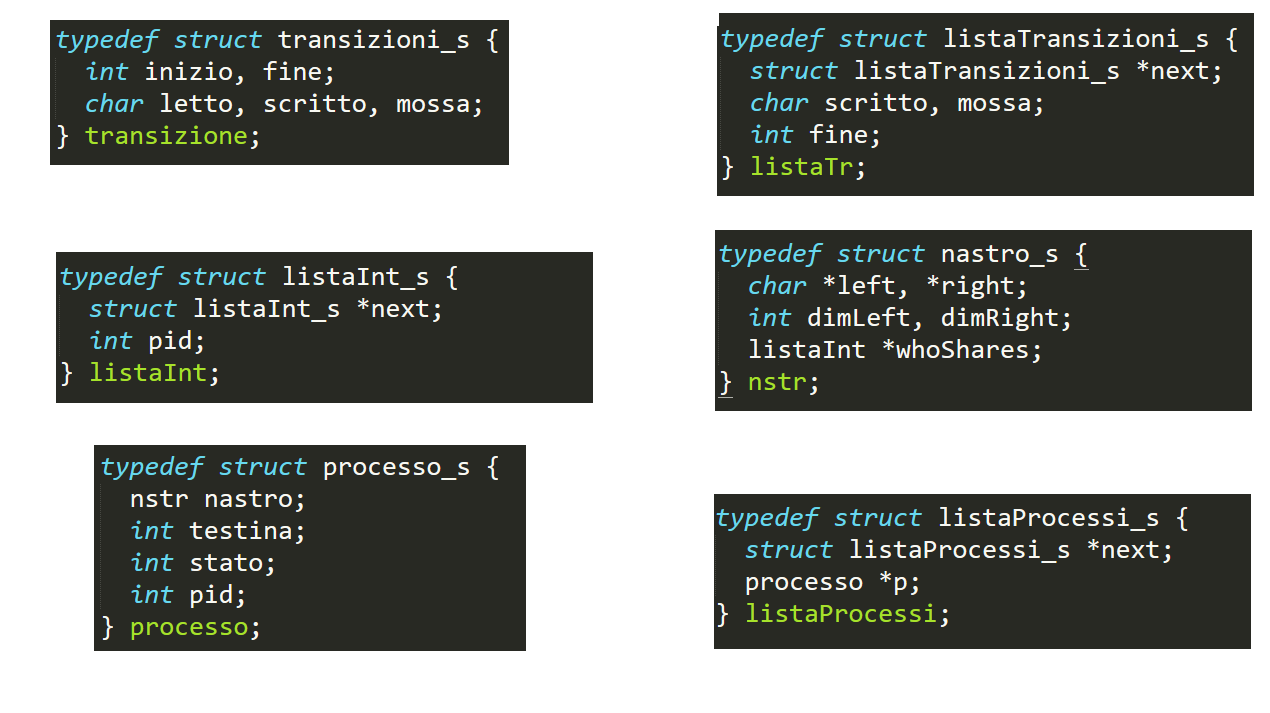
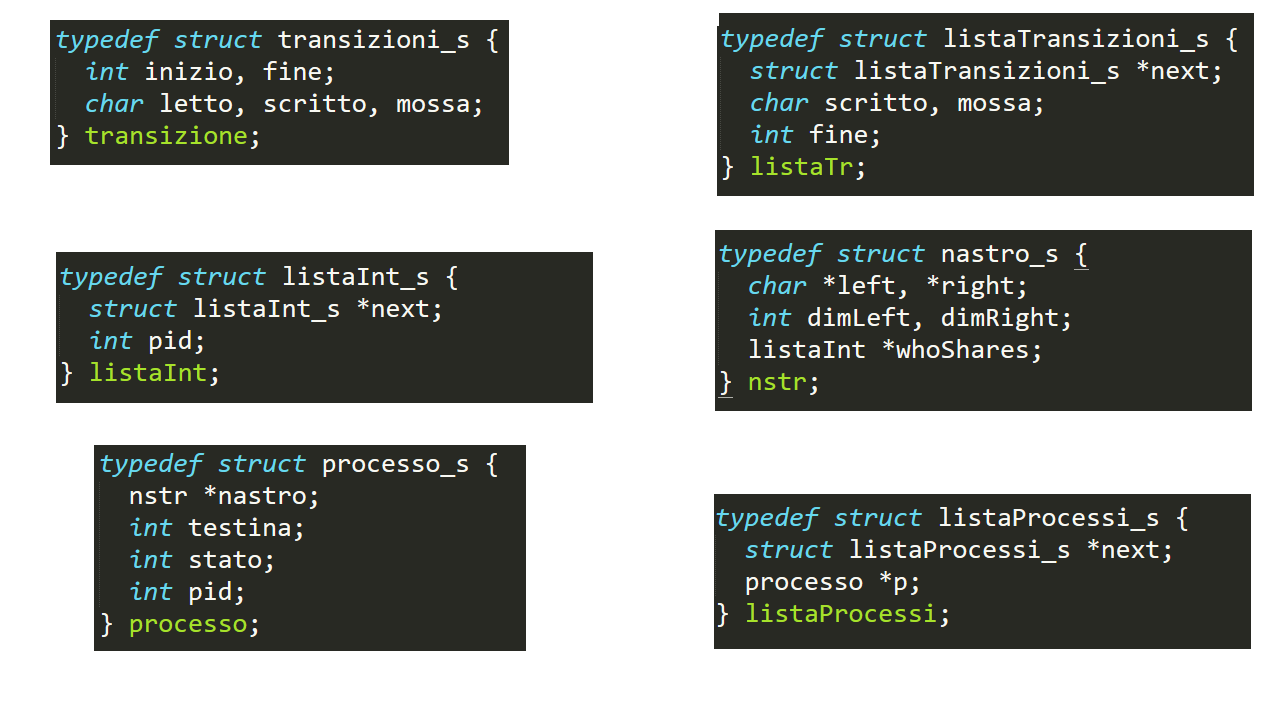
made nastro a pointer

Changed region(s): [[0.0614, 0.6171, 0.3992, 0.8948]]

diff --git a/main.c b/main.c
@@ -27,7 +27,7 @@ typedef struct nastro_s {
 } nstr;
 
 typedef struct processo_s {
-	nstr nastro;
+	nstr *nastro;
 	int testina;
 	int stato;
 	int pid;
@@ -39,36 +39,39 @@ typedef struct listaProcessi_s {
 } listaProcessi;
 
 
-int pos(int, int, int);
-listaTr *pushTransizione(listaTr *, transizione);
-char executeMachine(listaTr **, int, int, bool *, int, char *, int *);
+int pos(int, int, int);	//ritorna la posizione <i, j> nella matrice
+listaTr *pushTransizione(listaTr *, transizione);	//push nella lista transizioni
+char executeMachine(listaTr **, int, int, bool *, int, char *, int *);	//esegue la macchina
 
+//FUNZIONI DI LETTURA INPUT:
 transizione *leggiTransizioni(transizione *, int *, int *, int *, int *);
 void leggiStatiAccettazione(bool *);
 void leggiMax(int *);
 void creaRigheCaratteri(int *);
 listaTr **creaMatrice(listaTr **, transizione *, int, int, int *, int);
 
+//FUNZIONI PER DEBUGGING
 char rigaToCarattere(int, int *);
 void stampaLista(listaTr *);
 void showMatrix(listaTr **, int, int, int *);
 
-processo *createProcess(processo *, int, int, int, nstr);
-nstr *createNastro(nstr *, char *, int);
-listaInt *pushListaInt(listaInt *, int);
-listaProcessi *pushListaProcessi(listaProcessi *, processo *);
-listaProcessi *popListaProcessi(listaProcessi *, processo *);
-void deleteListaInt(listaInt *);
 
-void freeListaProcessi(listaProcessi *);
-char carattereLetto(processo *);
-bool nastroIsShared(processo *);
-void scriviSuNastro(processo *, char);
-void muoviTestina(processo *, char);
-void popWhoShares(processo *, listaProcessi *);
-listaInt *popListaInt(listaInt *, int);
-void copyOwnNastro(processo *);
-listaProcessi *copyProcesso(listaProcessi *, processo *, int);
+processo *createProcess(processo *, int, int, int, nstr *);	//crea un nuovo processo (usata solo per init)
+nstr *createNastroInit(nstr *, char *, int);	//data la stringa input e MAX, costruisce il nastro
+listaInt *pushListaInt(listaInt *, int);	//push nella lista whoShares
+listaProcessi *pushListaProcessi(listaProcessi *, processo *);	//push nella lista dei processi attivi
+listaProcessi *popListaProcessi(listaProcessi *, processo *);	//pop dalla lista dei processi attivi
+void deleteListaInt(listaInt *);	//elimina la lista whoShares
+
+void freeListaProcessi(listaProcessi *);	//elimina la lista dei processi attivi
+char carattereLetto(processo *);	//ritorna il carattere puntato dalla testina sul nastro
+bool nastroIsShared(processo *);	//1: il nastro è condiviso, altrimenti 0
+void scriviSuNastro(processo *, char);	//scrive sul nastro del processo indicato
+void muoviTestina(processo *, char);	//sposta la testina
+void popWhoShares(processo *, listaProcessi *);	//pop dalla lista dei condivisori (controlla TUTTI i processi attivi)
+listaInt *popListaInt(listaInt *, int);	//pop dalla lista dei condivisori
+void copyOwnNastro(processo *);	//crea un nuovo nastro e lo assegna al processo in input, copiando il nastro precedente
+listaProcessi *copyProcesso(listaProcessi *, processo *, int);	//copia un processo
 
 
 
@@ -301,8 +304,8 @@ char executeMachine(listaTr **matrice, int statoMassimo, int nCaratteriPresenti,
 	//L'esecuzione della macchina si basa sulla creazione di processi ogni volta che incontro un NON determinismo
 
 	//creazione processo iniziale:
-	nastroInit = createNastro(nastroInit, input, max);
-	init = createProcess(init, 0, 0, 0, *nastroInit);
+	nastroInit = createNastroInit(nastroInit, input, max);
+	init = createProcess(init, 0, 0, 0, nastroInit);
 
 	processiAttiviHead = pushListaProcessi(processiAttiviHead, init);
 	newPidCounter = 1;
@@ -388,9 +391,9 @@ listaTr *pushTransizione(listaTr *head, transizione t){
 
 //Execute Machine Functions
 
-processo *createProcess(processo *p, int testina, int stato, int pid, nstr nastro){
+processo *createProcess(processo *p, int testina, int stato, int pid, nstr *nastro){
 
-	p = (processo *)malloc(sizeof(processo));
+	p = (processo *)malloc(sizeof(processo));	//alloca il nuovo processo
 	if(!p){
 		fprintf(stderr, "Errore allocazione memoria nuovo nastro\n");
 		return p;
@@ -404,7 +407,7 @@ processo *createProcess(processo *p, int testina, int stato, int pid, nstr nastr
 	return p;
 }
 
-nstr *createNastro(nstr *n, char *stringa, int max){
+nstr *createNastroInit(nstr *n, char *stringa, int max){
 	int i;
 	n = (nstr *)malloc(sizeof(nstr));
 
@@ -467,9 +470,9 @@ listaProcessi *popListaProcessi(listaProcessi *processiAttiviHead, processo *p){
 		temp = processiAttiviHead;
 		processiAttiviHead = processiAttiviHead->next;
 
-		free(temp->p->nastro.left);
-		free(temp->p->nastro.right);
-		deleteListaInt(temp->p->nastro.whoShares);
+		free(temp->p->nastro->left);
+		free(temp->p->nastro->right);
+		deleteListaInt(temp->p->nastro->whoShares);
 		free(temp->p);
 		free(temp);
 	}
@@ -499,22 +502,22 @@ void freeListaProcessi(listaProcessi *head){
 
 char carattereLetto(processo *p){
 	if(p->testina >= 0)
-		return (p->nastro.right)[p->testina];
+		return (p->nastro->right)[p->testina];
 	
-	return (p->nastro.left)[-(p->testina) - 1];
+	return (p->nastro->left)[-(p->testina) - 1];
 }
 
 bool nastroIsShared(processo *p){
-	if((p->nastro.whoShares)->next)
+	if((p->nastro->whoShares)->next)
 		return 1;
 	return 0;
 }
 
 void scriviSuNastro(processo *p, char toWrite){
 	if(p->testina >= 0)
-		(p->nastro.right)[p->testina] = toWrite;
+		(p->nastro->right)[p->testina] = toWrite;
 	else
-		(p->nastro.left)[-(p->testina) - 1] = toWrite;
+		(p->nastro->left)[-(p->testina) - 1] = toWrite;
 	return;
 }
 
@@ -540,7 +543,7 @@ void popWhoShares(processo *indiceProcesso, listaProcessi *processiAttiviHead){
 	temp = processiAttiviHead;
 	while(temp){
 		processoTemp = temp->p;
-		processoTemp->nastro.whoShares = popListaInt(processoTemp->nastro.whoShares, pid);
+		processoTemp->nastro->whoShares = popListaInt(processoTemp->nastro->whoShares, pid);
 		temp = temp->next;
 	}
 
@@ -570,21 +573,21 @@ void copyOwnNastro(processo *p){
 	nstr *nuovo;
 	nuovo = (nstr *)malloc(sizeof(nstr));
 
-	nuovo->dimLeft = p->nastro.dimLeft;
-	nuovo->dimRight = p->nastro.dimRight;
+	nuovo->dimLeft = p->nastro->dimLeft;
+	nuovo->dimRight = p->nastro->dimRight;
 
 	nuovo->left = (char *)malloc(nuovo->dimLeft * sizeof(char));
 	nuovo->right = (char *)malloc(nuovo->dimRight * sizeof(char));
 
 	for(i = 0; i < nuovo->dimLeft; i++)
-		(nuovo->left)[i] = (p->nastro.left)[i];
+		(nuovo->left)[i] = (p->nastro->left)[i];
 	for(i = 0; i < nuovo->dimRight; i++)
-		(nuovo->right)[i] = (p->nastro.right)[i];
+		(nuovo->right)[i] = (p->nastro->right)[i];
 
 	nuovo->whoShares = NULL;
 	nuovo->whoShares = pushListaInt(nuovo->whoShares, p->pid);
 
-	&(p->nastro) = nuovo;
+	p->nastro = nuovo;
 	return;
 }
 
@@ -594,11 +597,11 @@ listaProcessi *copyProcesso(listaProcessi *processiAttiviHead, processo *toCopy,
 	nuovo = (processo *)malloc(sizeof(processo));
 	nuovo->pid = newPid;
 
-	toCopy->nastro.whoShares = pushListaInt(toCopy->nastro.whoShares, newPid);
+	toCopy->nastro->whoShares = pushListaInt(toCopy->nastro->whoShares, newPid);
 	nuovo->stato = toCopy->stato;
 	nuovo->testina = toCopy->testina;
 
-	&(nuovo->nastro) = &(toCopy->nastro);
+	nuovo->nastro = toCopy->nastro;
 
 	processiAttiviHead = pushListaProcessi(processiAttiviHead, nuovo);
 	return processiAttiviHead;
